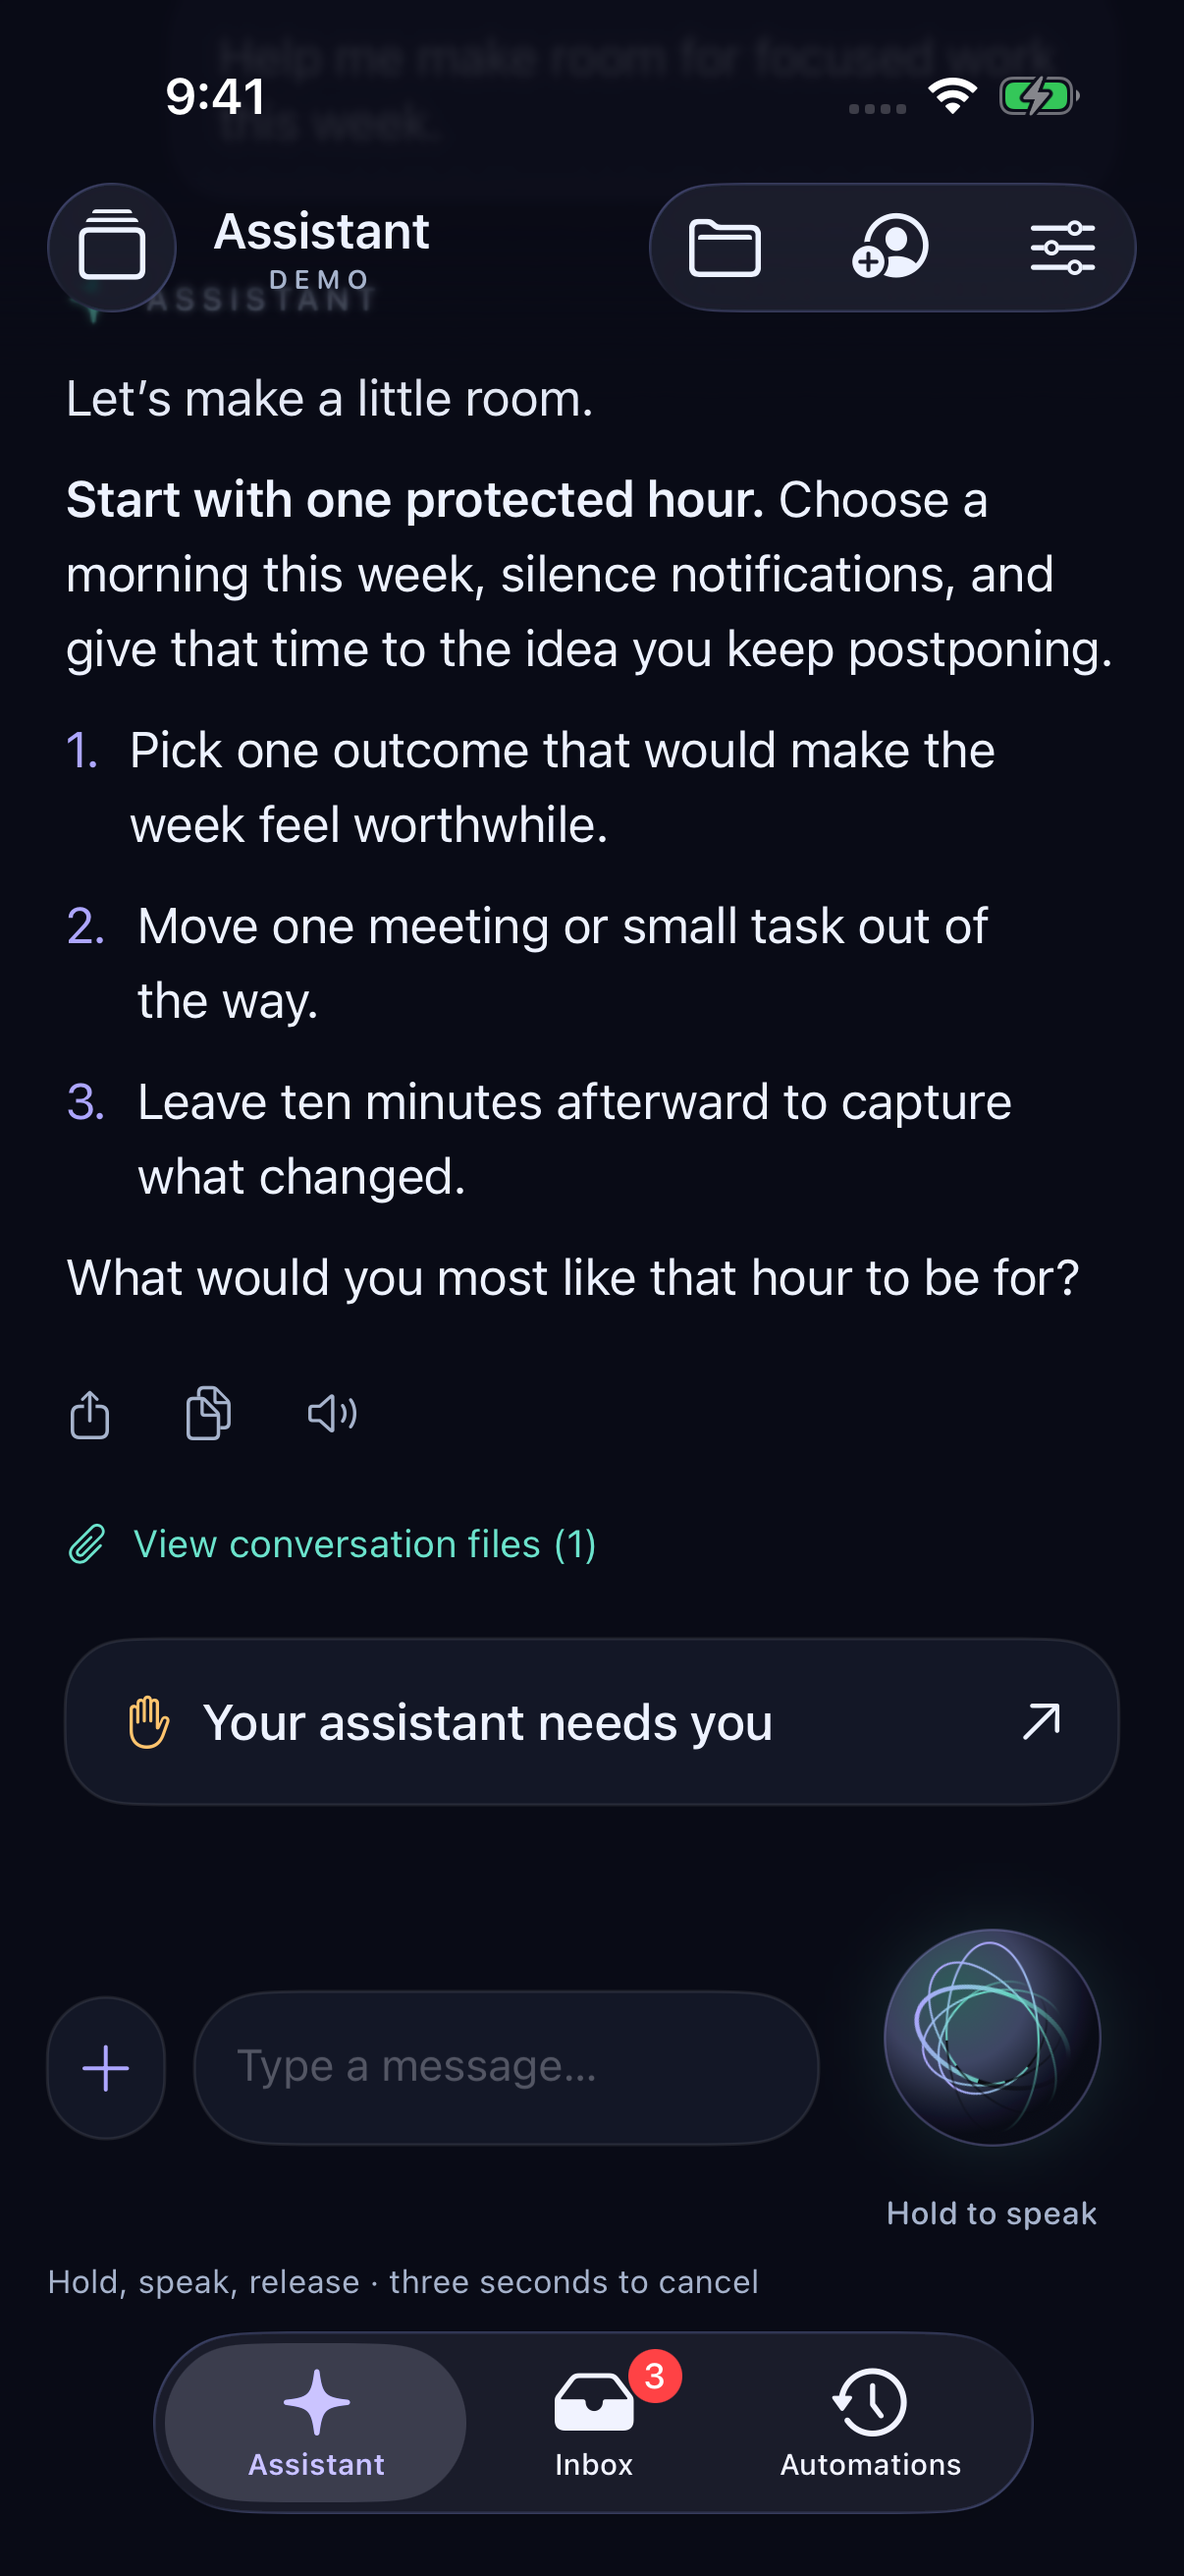
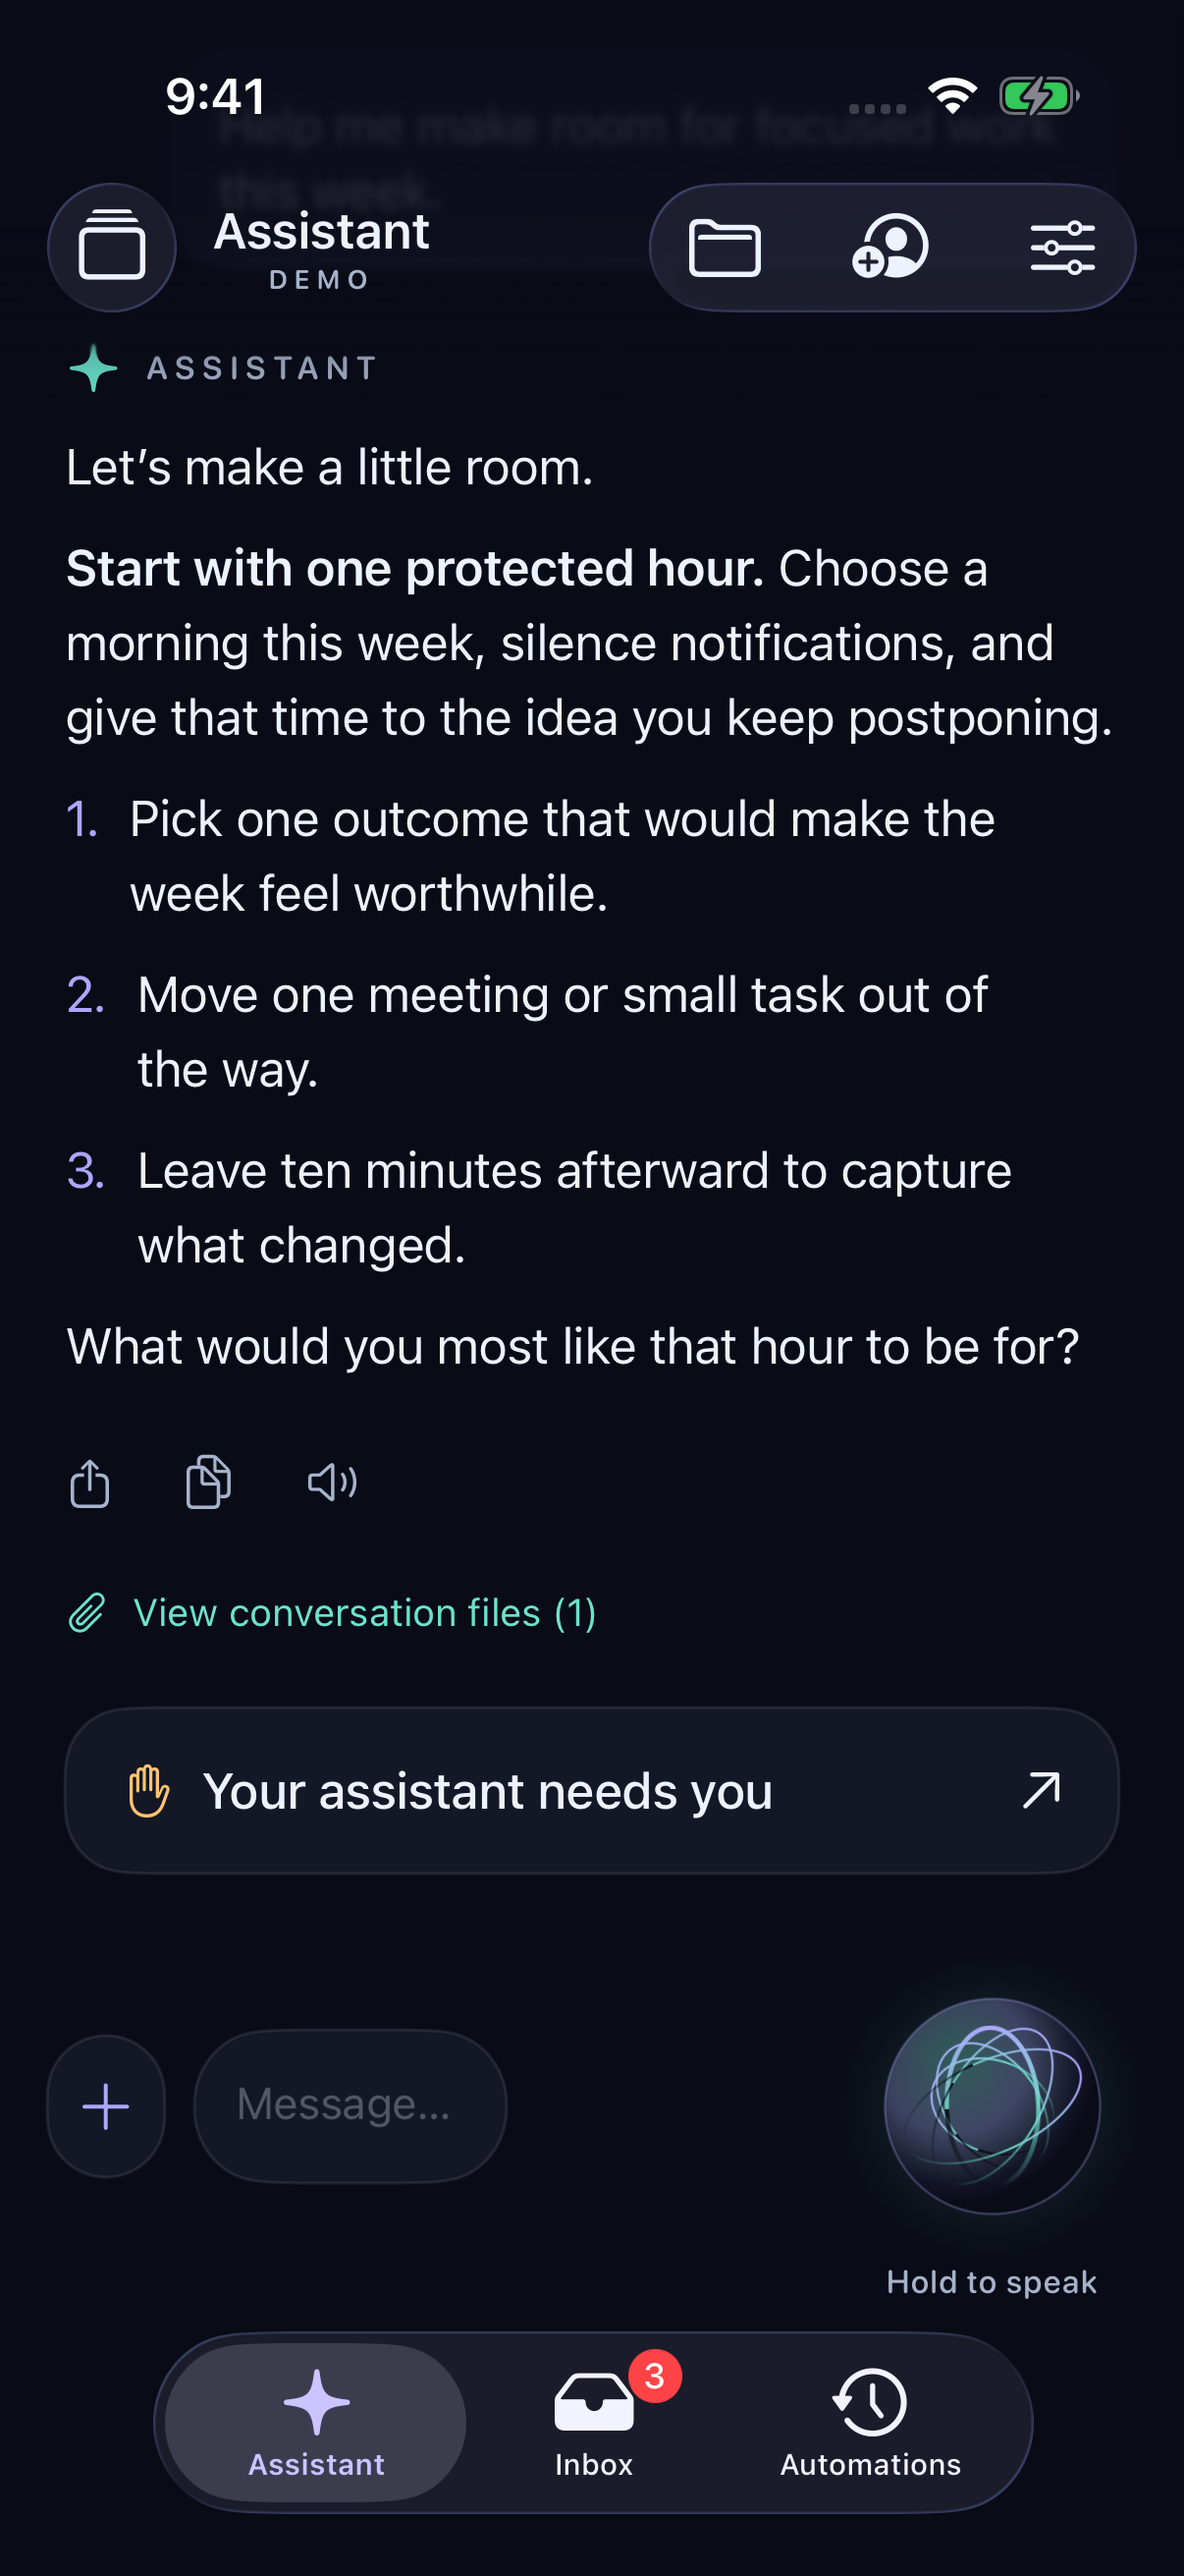
Tighten empty iPhone composer and align bottom controls

diff --git a/phone/iphone/Sources/App/ChatScreen.swift b/phone/iphone/Sources/App/ChatScreen.swift
@@ -186,7 +186,7 @@ struct ChatScreen: View {
             HStack(alignment: .center, spacing: 10) {
                 attachmentMenu
                 HStack(alignment: .bottom, spacing: 8) {
-                    TextField("Type a message…", text: $draft, axis: .vertical)
+                    TextField(compactEmptyInput ? "Message…" : "Type a message…", text: $draft, axis: .vertical)
                         .font(.subheadline).lineLimit(1...4).focused($typing).padding(.vertical, 16)
                         .accessibilityIdentifier("composer.input")
                         .disabled(!store.canSend || voice.recording || voice.inputPhase == .authorizing || voice.inputPhase == .atLimit || voice.transcribing)
@@ -200,14 +200,20 @@ struct ChatScreen: View {
                 .padding(.horizontal, 14).frame(maxWidth: .infinity)
                 .background(PhoneTheme.surface, in: RoundedRectangle(cornerRadius: 25))
                 .overlay(RoundedRectangle(cornerRadius: 25).stroke(typing ? PhoneTheme.lavender.opacity(0.5) : PhoneTheme.stroke))
+                .containerRelativeFrame(.horizontal) { width, _ in
+                    let available = max(88, width - 32 - 40 - (typing ? 10 : 98 + 20))
+                    return compactEmptyInput ? available / 2 : available
+                }
+                .frame(maxWidth: .infinity, alignment: .leading)
                 if !typing {
                     VoicePresence(voice: voice, working: store.phase != .ready, enabled: store.canSend && !attachments.busy && !mediaLoading, onPress: beginVoice, onRelease: { voice.release() }, onCancel: cancelVoice, onAccessibleActivate: accessibleVoice)
+                        .alignmentGuide(VerticalAlignment.center) { _ in 46 } // Align the orb itself with the input and +; its caption sits below.
                         .transition(.asymmetric(insertion: .opacity.combined(with: .scale(scale: 0.75, anchor: .trailing)), removal: .opacity.combined(with: .scale(scale: 0.75, anchor: .trailing))))
                 }
             }
             .animation(composerAnimation, value: typing)
             .animation(composerAnimation, value: draft.isEmpty)
-            if !typing {
+            if !typing && voice.inputPending {
                 HStack(spacing: 8) {
                     Text(voiceInstruction).font(.caption2).foregroundStyle(voice.localPending ? PhoneTheme.mint : PhoneTheme.secondary).contentTransition(.numericText(countsDown: true))
                     if voice.inputPending { Spacer(minLength: 0); Button("Cancel", action: cancelVoice).font(.caption.weight(.medium)).accessibilityLabel("Cancel voice message") }
@@ -217,6 +223,7 @@ struct ChatScreen: View {
     }
     @Environment(\.accessibilityReduceMotion) private var reduceMotion
     private var composerAnimation: Animation? { reduceMotion ? nil : .spring(duration: 0.4, bounce: 0.12) }
+    private var compactEmptyInput: Bool { !typing && draft.isEmpty && attachments.pending.isEmpty }
     private var voiceInstruction: String {
         switch voice.inputPhase {
         case .authorizing: return "Allow the microphone, then hold again."
@@ -224,7 +231,7 @@ struct ChatScreen: View {
         case .atLimit: return "One minute recorded · release to send"
         case .countdown, .ready: return "Sending in \(voice.secondsRemaining)s · touch the orb to cancel"
         case .transcribing: return "Transcribing your voice…"
-        case .idle: return draft.isEmpty ? "Hold, speak, release · three seconds to cancel" : "Voice sends separately. Your typed draft stays here."
+        case .idle: return ""
         }
     }
     private var attachmentMenu: some View {

diff --git a/phone/iphone/Sources/App/SettingsScreen.swift b/phone/iphone/Sources/App/SettingsScreen.swift
@@ -32,7 +32,7 @@ struct SettingsScreen: View {
                     Link("AbstractFramework", destination: URL(string: "https://abstractframework.ai")!)
                     Link("Source & community", destination: URL(string: "https://github.com/lpalbou/AbstractAssistant")!)
                     Link("Get in touch", destination: URL(string: "mailto:contact@abstractframework.ai")!)
-                    Text("Version 0.3.0 · iOS 26 or later").font(.caption).foregroundStyle(PhoneTheme.secondary)
+                    Text("Version 0.3.1 · iOS 26 or later").font(.caption).foregroundStyle(PhoneTheme.secondary)
                 }
                 Section { Button(store.isDemo ? "Leave demo" : "Disconnect this iPhone", role: .destructive) { confirm = true } }
             }.scrollContentBackground(.hidden).background(PhoneTheme.ground).navigationTitle("Your space").navigationBarTitleDisplayMode(.inline)

diff --git a/phone/iphone/UITests/PhoneUITests.swift b/phone/iphone/UITests/PhoneUITests.swift
@@ -75,6 +75,10 @@ final class PhoneUITests: XCTestCase {
         let input = app.textFields["composer.input"].exists ? app.textFields["composer.input"] : app.textViews["composer.input"]
         XCTAssertTrue(app.buttons["voice.orb"].waitForExistence(timeout: 10))
         let compactWidth = input.frame.width
+        XCTAssertLessThan(compactWidth, app.frame.width * 0.3)
+        XCTAssertLessThan(abs(input.frame.midY - app.buttons["Add attachment"].frame.midY), 3)
+        XCTAssertLessThan(abs(input.frame.midY - app.buttons["voice.orb"].frame.midY), 3)
+        XCTAssertFalse(app.staticTexts["Hold, speak, release · three seconds to cancel"].exists)
         input.tap(); input.typeText("Keep this typed draft")
         XCTAssertTrue(app.buttons["Done"].waitForExistence(timeout: 5))
         XCTAssertFalse(app.buttons["voice.orb"].exists)

diff --git a/phone/iphone/docs/validation.md b/phone/iphone/docs/validation.md
@@ -1,6 +1,32 @@
 # Developer preview validation
 
-Checked on 17 October 2026 for iPhone preview **0.3.0 (3)**.
+Checked on 17 October 2026. Current layout follow-up: **0.3.1 (4)**.
+
+## 0.3.1 compact composer follow-up
+
+The empty, unfocused text panel now uses half its previous width. The +, field and orb
+align to the actual orb center, with its caption below. The repeated idle instruction
+line is removed; active capture/countdown cancellation controls remain available.
+Keyboard focus still expands the field, and staged attachments or a nonempty draft keep
+the regular composer width.
+
+Three focused native UI tests passed in
+`build/UITests-1792265056209102000.xcresult`, with no runtime warnings: conversation/navigation,
+keyboard expansion/restoration and hold/release/cancel/automatic voice send. The tightened
+keyboard test checks the empty field's compact width, all three control centers within
+3 points, absence of the idle footer, and the expanded keyboard layout. Updated Assistant,
+Conversation, Keyboard, Compact and Countdown screenshots below come from this run.
+The same independent adversarial reviewer inspected these screenshots and the result:
+**Approved** for this small layout follow-up, with no new blocker. The existing physical
+audio/accessibility limitations remain as recorded below.
+
+The final 0.3.1 (4) device build was signature-verified, installed and launched on the
+connected iPhone over the previous app, preserving its sign-in and data.
+
+## 0.3.0 voice/composer baseline
+
+The baseline results below cover preview **0.3.0 (3)**; the 0.3.1 follow-up changes layout,
+copy and version metadata, leaving the voice/network policy and package code intact.
 
 This iteration changes only the phone subtree. Watch and desktop sources are outside its
 scope. Checks use deterministic HTTP fixtures and demo data, without production automation,
@@ -93,8 +119,8 @@ Settled native XCTest screenshots are checked in:
   [Automations](../design/screenshots/automations.png),
   [Approval](../design/screenshots/approval.png)
 
-These images precede the final disabled-Send opacity and animation-phase adjustments;
-the functional layout and tested interactions are unchanged by that polish.
+The current composer captures come from the 0.3.1 focused run. Other feature captures
+remain from the 0.3.0 baseline; their functional layouts are unchanged.
 
 ## Independent review
 

diff --git a/phone/iphone/README.md b/phone/iphone/README.md
@@ -3,7 +3,7 @@
 A quiet place to think, ask, and pick things up again. A native SwiftUI client for your
 AbstractGateway, with the conversation at the center and the controls you need close by.
 
-**Developer preview · 0.3.0 · iOS 26+**
+**Developer preview · 0.3.1 · iOS 26+**
 
 ## Three small spaces
 
@@ -14,7 +14,8 @@ AbstractGateway, with the conversation at the center and the controls you need c
   your phone, desktop, Watch or browser. Choose an entity with the person icon to talk to it.
   Share or copy an answer, or ask the gateway to read it aloud; pause, resume and stop playback.
   The orb stays beside the text field and responds to microphone and playback energy.
-  Tap the text field to expand it and hide the orb; **Done** brings the orb back. Attachments
+  The empty text field takes half its usual width. Tap it to expand it and hide the orb;
+  **Done** brings the orb back. Attachments
   have their own **+** button, shared by text and voice. Any typed draft stays intact when
   you send a separate voice message.
 - **Inbox.** Questions and tool approvals, followed by recent activity. Approvals show every

diff --git a/phone/iphone/docs/architecture.md b/phone/iphone/docs/architecture.md
@@ -70,8 +70,10 @@ rerender on every sample. The dot-free orb's silhouette, rings and light respond
 A small isolated TimelineView maintains continuous ring motion. Reduce Motion freezes
 rotation/scale while retaining signal-driven light. Timers/tasks and audio stop on exit.
 
-The independent attachment control sits beside the text panel and orb (roughly 70/30 of
-remaining portrait width). Keyboard focus expands the text panel and removes the orb with
+The independent attachment control sits beside the text panel and orb. The empty,
+unfocused text panel takes half its normal width; the controls align to the actual orb
+center, with its caption below. Idle instructions are not repeated beneath the row.
+Keyboard focus expands the text panel and removes the orb with
 a spring transition; focus cancels pending voice before hiding its cancel control. A native
 UIControl surface supplies reliable down/up/drag-cancel events and a VoiceOver toggle path.
 The Debug-only `--demo --ui-test --voice-fixture` capture is isolated from live gateways;
